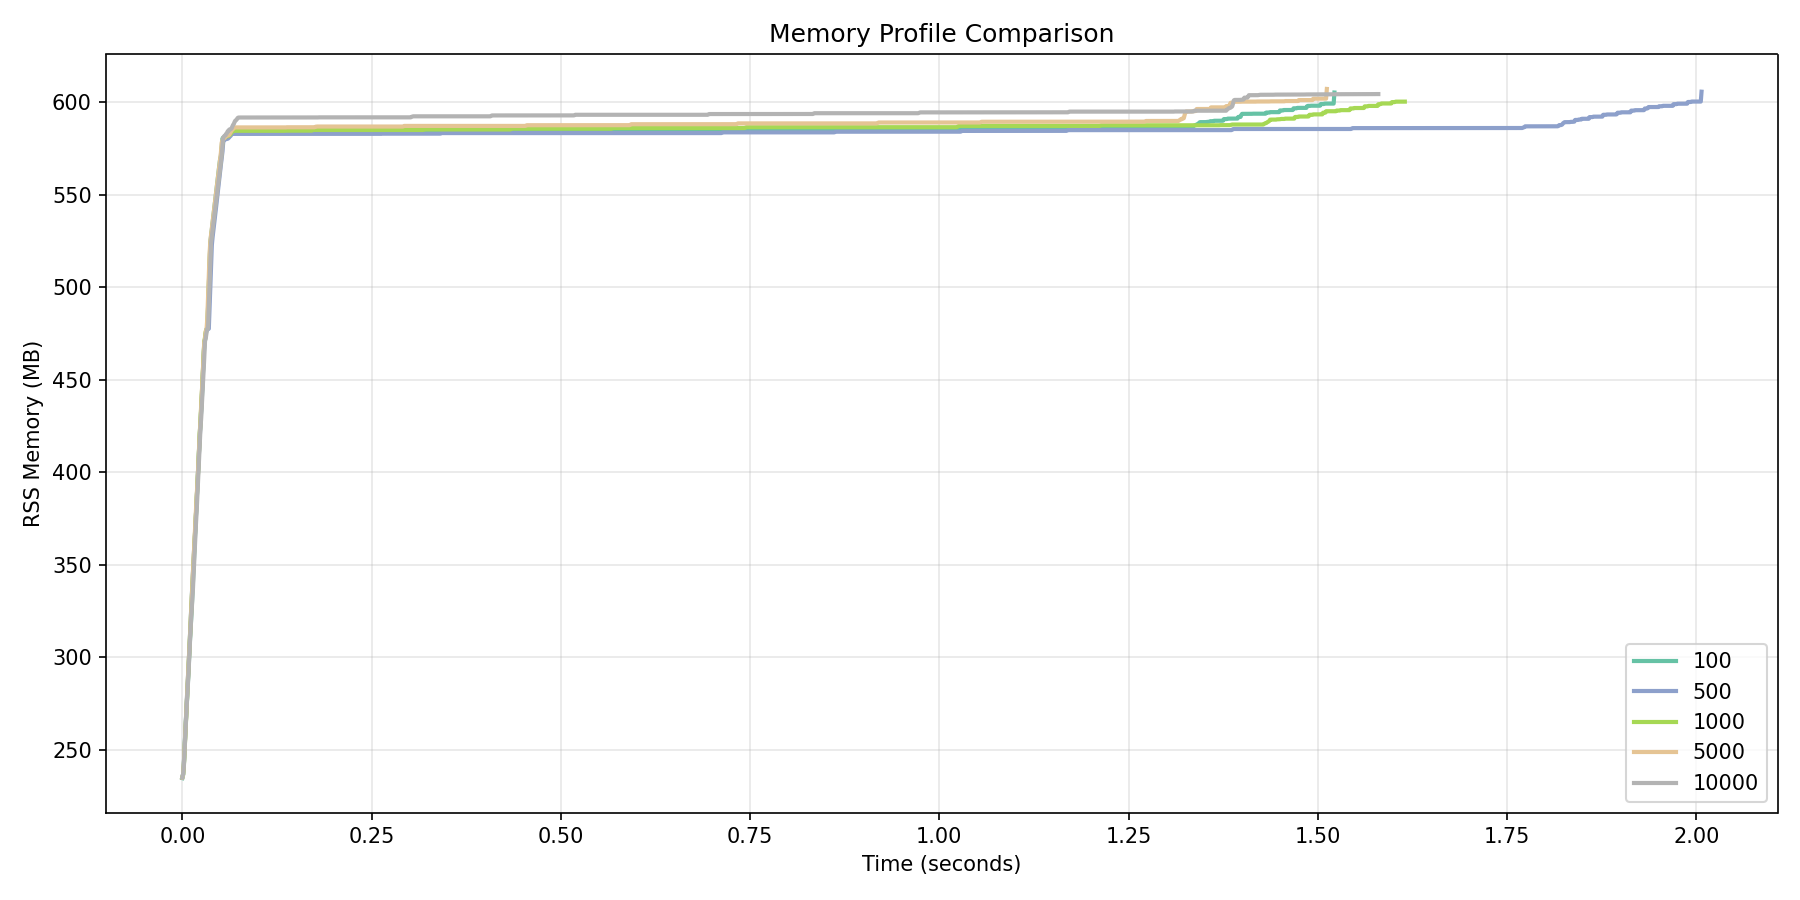
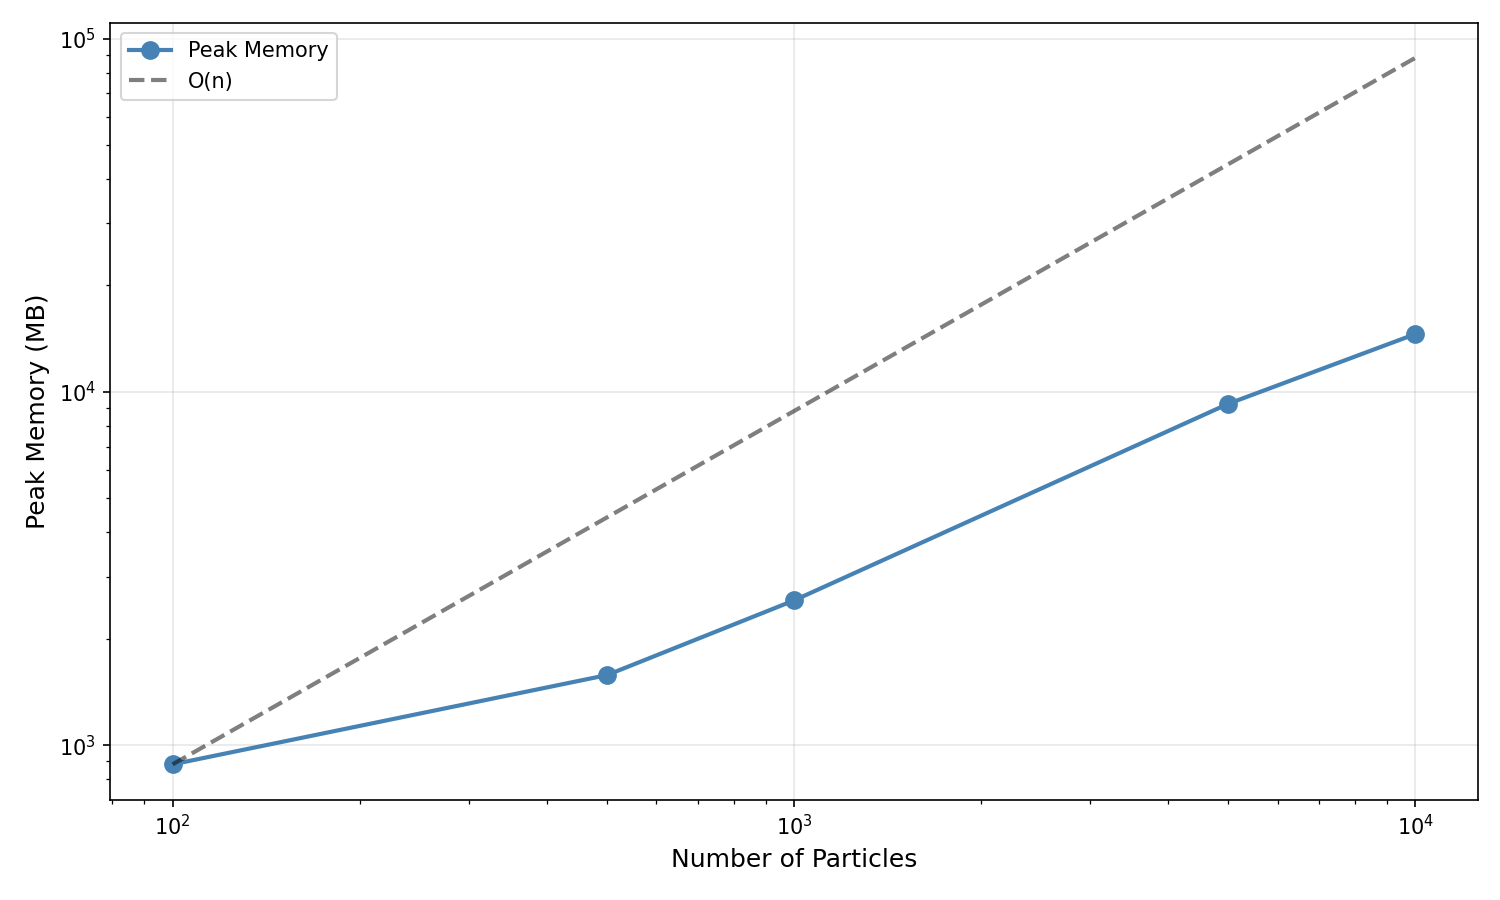
Updating docs with the latest timing and memory plots

diff --git a/profiling/pipeline/profile_memory.py b/profiling/pipeline/profile_memory.py
@@ -2,7 +2,7 @@
 
 This script builds galaxies, instruments, and an emission model, then uses
 the Pipeline to run all requested operations while continuously sampling
-RSS memory at 1kHz to capture peak usage during setup and execution.
+RSS memory to capture peak usage during setup and execution.
 """
 
 from __future__ import annotations
@@ -26,7 +26,7 @@ sys.path.insert(0, str(Path(__file__).parent))
 from pipeline_test_data import (
     build_test_galaxies,
     get_test_emission_model,
-    get_test_instruments,
+    get_test_instrument,
     get_test_kernel,
 )
 
@@ -37,8 +37,9 @@ def run_pipeline_with_memory(
     seed: int = 42,
     fov_kpc: float = 60.0,
     include_observer_frame: bool = False,
+    sample_freq_hz: float = 1000.0,
 ) -> tuple[list, float]:
-    """Run full Pipeline and collect memory samples at 1000 Hz.
+    """Run full Pipeline and collect memory samples at specified frequency.
 
     Parameters
     ----------
@@ -52,6 +53,8 @@ def run_pipeline_with_memory(
         Field of view for imaging in kpc (default 60)
     include_observer_frame : bool
         If True, include observer-frame/flux operations
+    sample_freq_hz : float
+        Memory sampling frequency in Hz (default 1000)
 
     Returns:
     -------
@@ -60,15 +63,17 @@ def run_pipeline_with_memory(
     """
     samples = []
     stop_sampling = False
+    sleep_time = 1.0 / sample_freq_hz
 
     def sample_memory():
         """Background thread to sample memory."""
         timestamp_ms = 0
+        dt_ms = 1000.0 / sample_freq_hz
         while not stop_sampling:
             rss_mb = psutil.Process().memory_info().rss / 1024 / 1024
             samples.append((timestamp_ms, rss_mb))
-            timestamp_ms += 1
-            time.sleep(0.001)  # 1000 Hz
+            timestamp_ms += dt_ms
+            time.sleep(sleep_time)
 
     # Start sampling thread
     sampler = threading.Thread(target=sample_memory, daemon=True)
@@ -81,7 +86,7 @@ def run_pipeline_with_memory(
 
     # Build test data
     galaxies = build_test_galaxies(grid, nparticles, ngalaxies, seed)
-    instruments = get_test_instruments(grid)
+    instrument = get_test_instrument(grid)
     kernel = get_test_kernel()
     model = get_test_emission_model(grid)
 
@@ -108,29 +113,20 @@ def run_pipeline_with_memory(
 
     # Photometry (rest frame)
     pipeline.get_photometry_luminosities(
-        instruments["photometry"],
+        instrument,
     )
 
     # Lines (rest frame)
     pipeline.get_lines(line_ids=grid.available_lines)
 
     # Imaging (rest frame)
+    cosmo = Planck18
     pipeline.get_images_luminosity(
-        instruments["imaging"],
+        instrument,
         fov=fov,
         kernel=kernel,
-    )
-
-    # Data cubes (rest frame)
-    pipeline.get_data_cubes_lnu(
-        instruments["ifu"],
-        fov=fov,
-        kernel=kernel,
-    )
-
-    # Spectroscopy (rest frame)
-    pipeline.get_spectroscopy_lnu(
-        instruments["spectroscopy"],
+        cosmo=cosmo,
+        labels="intrinsic",
     )
 
     # Observer frame operations if requested
@@ -139,25 +135,16 @@ def run_pipeline_with_memory(
 
         pipeline.get_observed_spectra(cosmo=cosmo)
         pipeline.get_photometry_fluxes(
-            instruments["photometry"],
+            instrument,
             cosmo=cosmo,
         )
         pipeline.get_observed_lines(cosmo=cosmo)
         pipeline.get_images_flux(
-            instruments["imaging"],
+            instrument,
             fov=fov,
             kernel=kernel,
             cosmo=cosmo,
-        )
-        pipeline.get_data_cubes_fnu(
-            instruments["ifu"],
-            fov=fov,
-            kernel=kernel,
-            cosmo=cosmo,
-        )
-        pipeline.get_spectroscopy_fnu(
-            instruments["spectroscopy"],
-            cosmo=cosmo,
+            labels="intrinsic",
         )
 
     # Run the Pipeline
@@ -173,7 +160,7 @@ def run_pipeline_with_memory(
 def main() -> None:
     """Main entry point."""
     parser = argparse.ArgumentParser(
-        description="Profile Pipeline memory usage (1000 Hz sampling)"
+        description="Profile Pipeline memory usage with continuous sampling"
     )
     parser.add_argument(
         "--basename", type=str, required=True, help="Basename for output"
@@ -199,6 +186,12 @@ def main() -> None:
         action="store_true",
         help="Include observer-frame/flux operations",
     )
+    parser.add_argument(
+        "--sample-freq",
+        type=float,
+        default=1000.0,
+        help="Memory sampling frequency in Hz (default 1000)",
+    )
 
     args = parser.parse_args()
 
@@ -209,7 +202,8 @@ def main() -> None:
     particles_str = (
         f"particles={args.nparticles}, "
         f"galaxies={args.ngalaxies}, "
-        f"fov={args.fov_kpc} kpc"
+        f"fov={args.fov_kpc} kpc, "
+        f"sample_freq={args.sample_freq:.0f} Hz"
     )
     if args.include_observer_frame:
         particles_str += ", observer-frame=True"
@@ -222,6 +216,7 @@ def main() -> None:
         args.seed,
         args.fov_kpc,
         args.include_observer_frame,
+        args.sample_freq,
     )
 
     # Write CSV with all samples

diff --git a/profiling/pipeline/profile_timing.py b/profiling/pipeline/profile_timing.py
@@ -24,7 +24,7 @@ sys.path.insert(0, str(Path(__file__).parent))
 from pipeline_test_data import (
     build_test_galaxies,
     get_test_emission_model,
-    get_test_instruments,
+    get_test_instrument,
     get_test_kernel,
 )
 
@@ -70,7 +70,7 @@ def run_pipeline_profiling(
     timings["build_galaxies"] = time.perf_counter() - t_start
 
     t_start = time.perf_counter()
-    instruments = get_test_instruments(grid)
+    instrument = get_test_instrument(grid)
     kernel = get_test_kernel()
     timings["build_instruments"] = time.perf_counter() - t_start
 
@@ -82,7 +82,7 @@ def run_pipeline_profiling(
     t_start = time.perf_counter()
     pipeline = Pipeline(
         emission_model=model,
-        nthreads=1,
+        nthreads=8,
         verbose=0,
     )
     pipeline.add_galaxies(galaxies)
@@ -103,7 +103,7 @@ def run_pipeline_profiling(
 
     # Photometry (rest frame)
     pipeline.get_photometry_luminosities(
-        instruments["photometry"],
+        instrument,
     )
 
     # Lines (rest frame)
@@ -113,22 +113,11 @@ def run_pipeline_profiling(
     fov = fov_kpc * kpc
     cosmo = Planck18
     pipeline.get_images_luminosity(
-        instruments["imaging"],
+        instrument,
         fov=fov,
         kernel=kernel,
         cosmo=cosmo,
-    )
-
-    # Data cubes (rest frame)
-    pipeline.get_data_cubes_lnu(
-        instruments["ifu"],
-        fov=fov,
-        kernel=kernel,
-    )
-
-    # Spectroscopy (rest frame)
-    pipeline.get_spectroscopy_lnu(
-        instruments["spectroscopy"],
+        labels="intrinsic",
     )
 
     # Observer frame operations if requested
@@ -140,7 +129,7 @@ def run_pipeline_profiling(
 
         # Photometric fluxes
         pipeline.get_photometry_fluxes(
-            instruments["photometry"],
+            instrument,
             cosmo=cosmo,
         )
 
@@ -149,24 +138,11 @@ def run_pipeline_profiling(
 
         # Flux images
         pipeline.get_images_flux(
-            instruments["imaging"],
+            instrument,
             fov=fov,
             kernel=kernel,
             cosmo=cosmo,
-        )
-
-        # Data cubes (flux)
-        pipeline.get_data_cubes_fnu(
-            instruments["ifu"],
-            fov=fov,
-            kernel=kernel,
-            cosmo=cosmo,
-        )
-
-        # Spectroscopy (flux)
-        pipeline.get_spectroscopy_fnu(
-            instruments["spectroscopy"],
-            cosmo=cosmo,
+            labels="intrinsic",
         )
 
     timings["signal_operations"] = time.perf_counter() - t_start

diff --git a/docs/source/performance/performance.rst b/docs/source/performance/performance.rst
@@ -3,6 +3,7 @@ Performance
 
 To ensure Synthesizer is performant enough to handle the large dynamic range of possible input datasets we have put a lot of effort into optimising the codebase. 
 Needless to say, we are always looking for ways to improve performance further, so if you have any suggestions or find any bottlenecks, please do not hesitate to open an issue on GitHub.
+
 We have implemented a number of performance optimisations, including:
 
 - Using C++ extensions for computationally intensive tasks.
@@ -42,9 +43,6 @@ In the following sections we show some performance benchmarks to give an idea of
         Core(s) per socket:   32
         Socket(s):            2
 
-Performance
-^^^^^^^^^^^
-
 The following sections show how Synthesizer performs as a function of the size of the problem (number of particles and number of wavelength elements). These benchmarks were run using 8 threads on a test machine.
 
 Runtime Performance
@@ -54,10 +52,21 @@ The following plots show the time taken to complete various operations as the pr
 
 **Pipeline Scaling**
 
-This plot shows the runtime of the full ``Pipeline`` object running all operations (LOS optical depths, SFZH/SFH, spectra, photometry, emission lines) in both rest-frame and observer-frame as a function of the number of stellar particles per galaxy (100 to 10,000 particles, 10 galaxies).
+This plot shows the runtime of the full ``Pipeline`` object running all operations (LOS optical depths, SFZH/SFH, spectra, photometry, emission lines, imaging) in both rest-frame and observer-frame as a function of the number of stellar particles per galaxy (100 to 10,000 particles, 10 galaxies).
+
+**Test Configuration:**
+
+- **Emission Model**: ``PacmanEmission`` with dust attenuation (tau_v=0.5, fesc=0.1)
+- **Instrument**: JWST NIRCam Wide with 8 filters (F070W, F090W, F115W, F150W, F200W, F277W, F356W, F444W)
+- **Imaging**: 60 kpc FOV at z=1.0 with angular resolution (0.031 arcsec/pixel)
+- **Operations**: LOS optical depths, SFZH/SFH, rest-frame spectra (Lnu), observer-frame spectra (Fnu), photometry luminosities, photometry fluxes, emission line luminosities, emission line fluxes, rest-frame images, observer-frame images
+- **Galaxies**: 10 synthetic galaxies per run, each with stars, gas, and black holes
+- **Hardware**: AMD EPYC 7542 32-Core Processor, 8 threads used
+
+The plot shows only operations contributing ≥5% to the total runtime in at least one particle count. Reference lines show O(n) and O(n²) scaling behavior for comparison. Most operations scale between linear and quadratic with particle count, with spectra generation dominating the runtime (18-21% for Lnu spectra, up to 11% for Fnu spectra at 10k particles).
 
 .. image:: plots/pipeline_timing_scaling.png
-   :width: 75%
+   :width: 100%
    :align: center
 
 **Particle Scaling**
@@ -93,9 +102,19 @@ The following plots show the memory footprint of the **results** of various oper
 .. note::
    These plots measure the size of the final objects stored in memory (e.g., the generated spectra or photometry data). While these represent the permanent memory cost added to your session, there may be transient spikes in memory usage during the actual computation that are slightly higher than these values.
 
-**Pipeline Scaling (Memory)**
+**Pipeline Scaling (Memory Profile)**
 
-This plot shows the memory usage (RSS sampling at 1kHz) of the full ``Pipeline`` execution across different particle counts. The memory footprint remains relatively constant as particle count increases, indicating efficient memory usage.
+The following plots show the memory usage (RSS sampling at high frequency) of the full ``Pipeline`` execution across different particle counts using the same test configuration as the timing benchmarks above. Sampling frequencies range from 5 kHz for 100 particles down to 500 Hz for 10,000 particles to ensure adequate temporal resolution across all test cases.
+
+Memory usage normalised to execution progress (0-100%). This allows direct comparison of memory usage patterns across different particle counts. Peak memory is marked with circles. Memory usage grows steadily through execution, peaking around 60-80% completion when photometry and imaging operations are performed.
+
+.. image:: plots/pipeline_memory_normalized.png
+   :width: 75%
+   :align: center
+
+**Pipeline Scaling (Peak Memory)**
+
+Peak memory vs particle count on log-log axes with an O(n) reference line. Peak memory scales roughly linearly with particle count, indicating efficient memory usage. At 10,000 particles with the PacmanEmission model and JWST NIRCam imaging, peak memory reaches ~13 GB.
 
 .. image:: plots/pipeline_memory_scaling.png
    :width: 75%